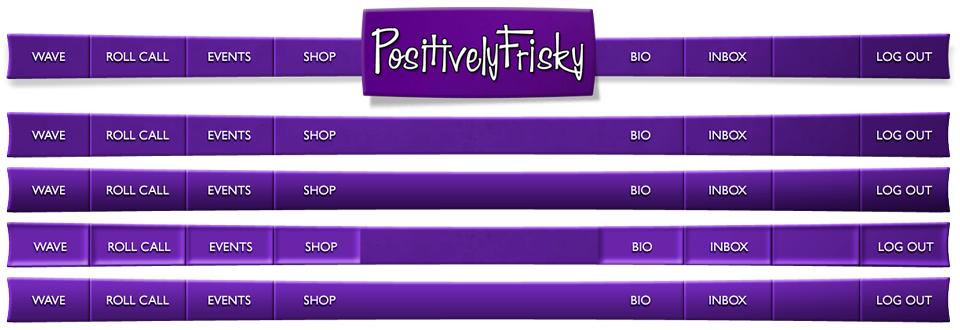
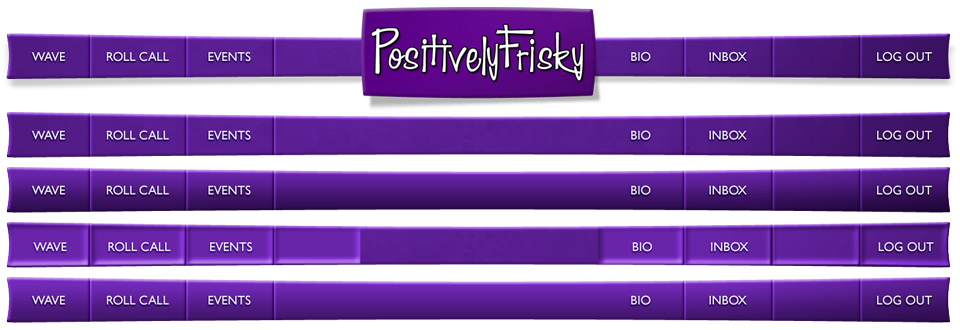
Header css for PF and tags on rollcall

diff --git a/public/stylesheets/friskyfactory/waves/roll_call.css b/public/stylesheets/friskyfactory/waves/roll_call.css
@@ -12,28 +12,19 @@
 
 .tag-cloud {
     text-align: center;
-/*	background: url('/images/friskyfactory/golden_fibers.png') repeat-y top center  #CEC2A2;*/
 	padding: 10px 20px;
 }
 
 .tag-cloud a,
 .tag-cloud a:visited {
-    color: #501508;
     margin: 0 4px;
-    padding: 2px 6px;
+    padding: 4px 8px;
     border-bottom: 0px;
     white-space: nowrap;
-}
-
-.tag-cloud a:hover,
-.tag-cloud a.current:hover {
-    color: #CCA;
-    background-color: rgb(80, 21, 8);
-}
-
-.tag-cloud a.current {
-    color: #CCA;
-    background-color: rgb(140, 55, 44);
+	display: inline-block;
+	-webkit-border-radius: 2px;
+	-moz-border-radius: 2px;
+	border-radius: 2px;
 }
 
 .tag-cloud a.tag1 { font-size: 0.6em; }

diff --git a/public/stylesheets/friskyfactory/application.css b/public/stylesheets/friskyfactory/application.css
@@ -387,7 +387,6 @@ a.bio {
 
 .header.secondary .flash {
     float: left;
-    color: #664;
 }
 
 .header.secondary .links {
@@ -395,21 +394,11 @@ a.bio {
     float: right;
 }
 
-.header.secondary a {
+/*.header.secondary a {
     margin: 0 4px;
     padding: 2px;
     border-bottom: 1px dotted #664;
-}
-
-.header.secondary a:visited,
-.header.secondary a:active {
-    color: #664;
-}
-
-.header.secondary a:hover {
-    color: #CCA;
-    background-color: #553;
-}
+}*/
 
 a.web_logos {
 	background: url(/images/friskyfactory/web_logos.png);

diff --git a/public/stylesheets/friskyhands/waves/roll_call.css b/public/stylesheets/friskyhands/waves/roll_call.css
@@ -1,0 +1,23 @@
+.tag-cloud a,
+.tag-cloud a:visited {
+    color: #501508;
+}
+
+.tag-cloud a:hover {
+    color: #CCA;
+    background-color: rgb(80, 21, 8);
+}
+
+.tag-cloud a.current,
+.tag-cloud a.current:hover {
+    color: #CCA;
+    background-color: rgb(140, 55, 44);
+}
+
+.tag-cloud a.current,
+.tag-cloud a:visited.current {
+	-webkit-box-shadow: 0px 0px 4px 2px rgba(255, 248, 220, 0.5);
+	-moz-box-shadow: 0px 0px 4px 2px rgba(255, 248, 220, 0.5);
+	box-shadow: 0px 0px 4px 2px rgba(255, 248, 220, 0.5);
+}
+

diff --git a/public/stylesheets/positivelyfrisky/waves/roll_call.css b/public/stylesheets/positivelyfrisky/waves/roll_call.css
@@ -1,0 +1,23 @@
+.tag-cloud a:hover {
+    color: #FFF;
+    background-color: rgba(82, 53, 111, 0.6);
+}
+
+.tag-cloud a.current,
+.tag-cloud a.current:hover {
+    color: #FFF;
+    background-color: rgb(82, 53, 111);
+}
+
+
+.tag-cloud a,
+.tag-cloud a:visited {
+    color: #FFF;
+}
+
+.tag-cloud a.current,
+.tag-cloud a:visited.current {
+	-webkit-box-shadow: 0px 0px 4px 4px #888;
+	-moz-box-shadow: 0px 0px 4px 4px #888;
+	box-shadow: 0px 0px 4px 4px #888;
+}

diff --git a/public/stylesheets/friskyhands/application.css b/public/stylesheets/friskyhands/application.css
@@ -5,3 +5,19 @@
 .header.primary ul.nav li a {
 	background-image: url(/images/friskyhands/header.png);
 }
+
+.header.secondary a:visited,
+.header.secondary a:active {
+    color: #664;
+}
+
+.header.secondary .flash {
+    color: #664;
+}
+
+.header.secondary a:hover {
+    color: #CCA;
+    background-color: #553;
+}
+
+

diff --git a/public/stylesheets/positivelyfrisky/application.css b/public/stylesheets/positivelyfrisky/application.css
@@ -14,3 +14,11 @@ body {
 	color: #FFF;
 }
 
+.header.secondary { 
+	color: #FFF
+}
+
+.header.secondary a:visited,
+.header.secondary a:active {
+    color: #FFF;
+}
